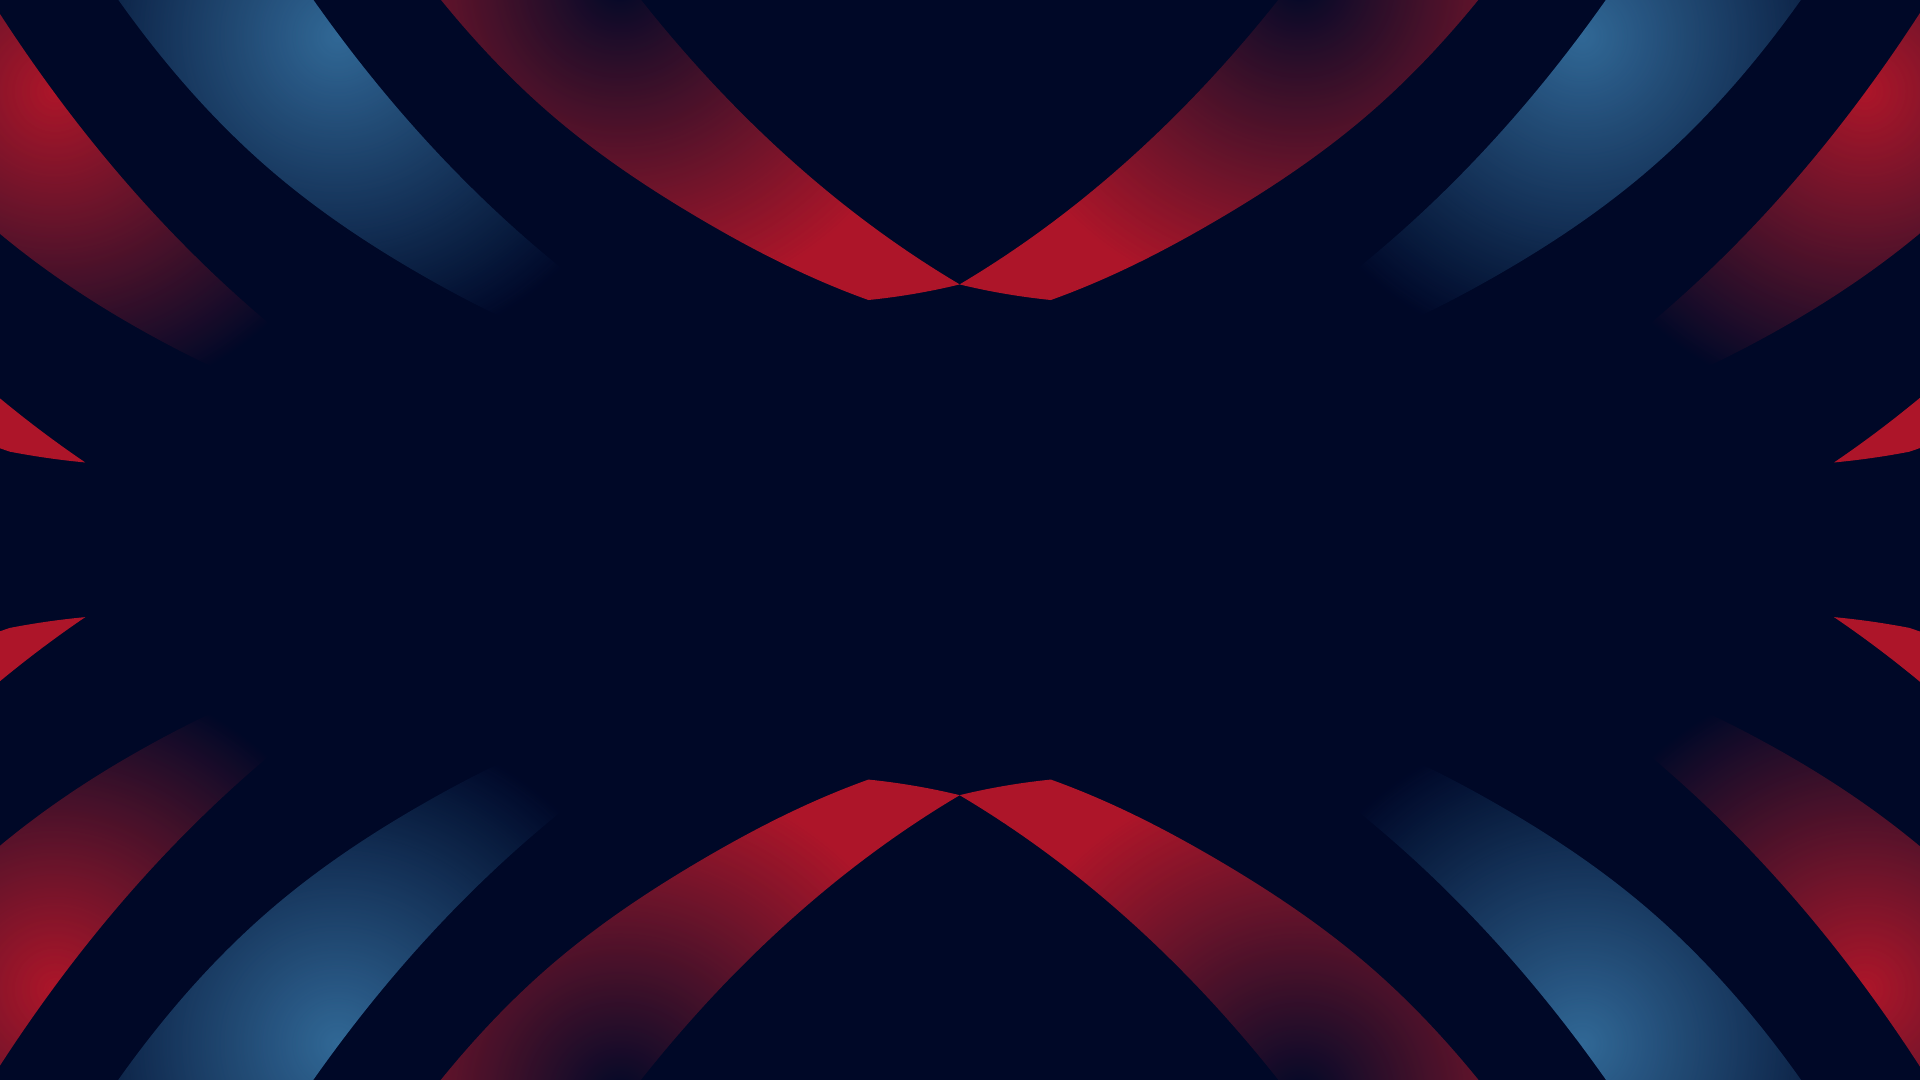
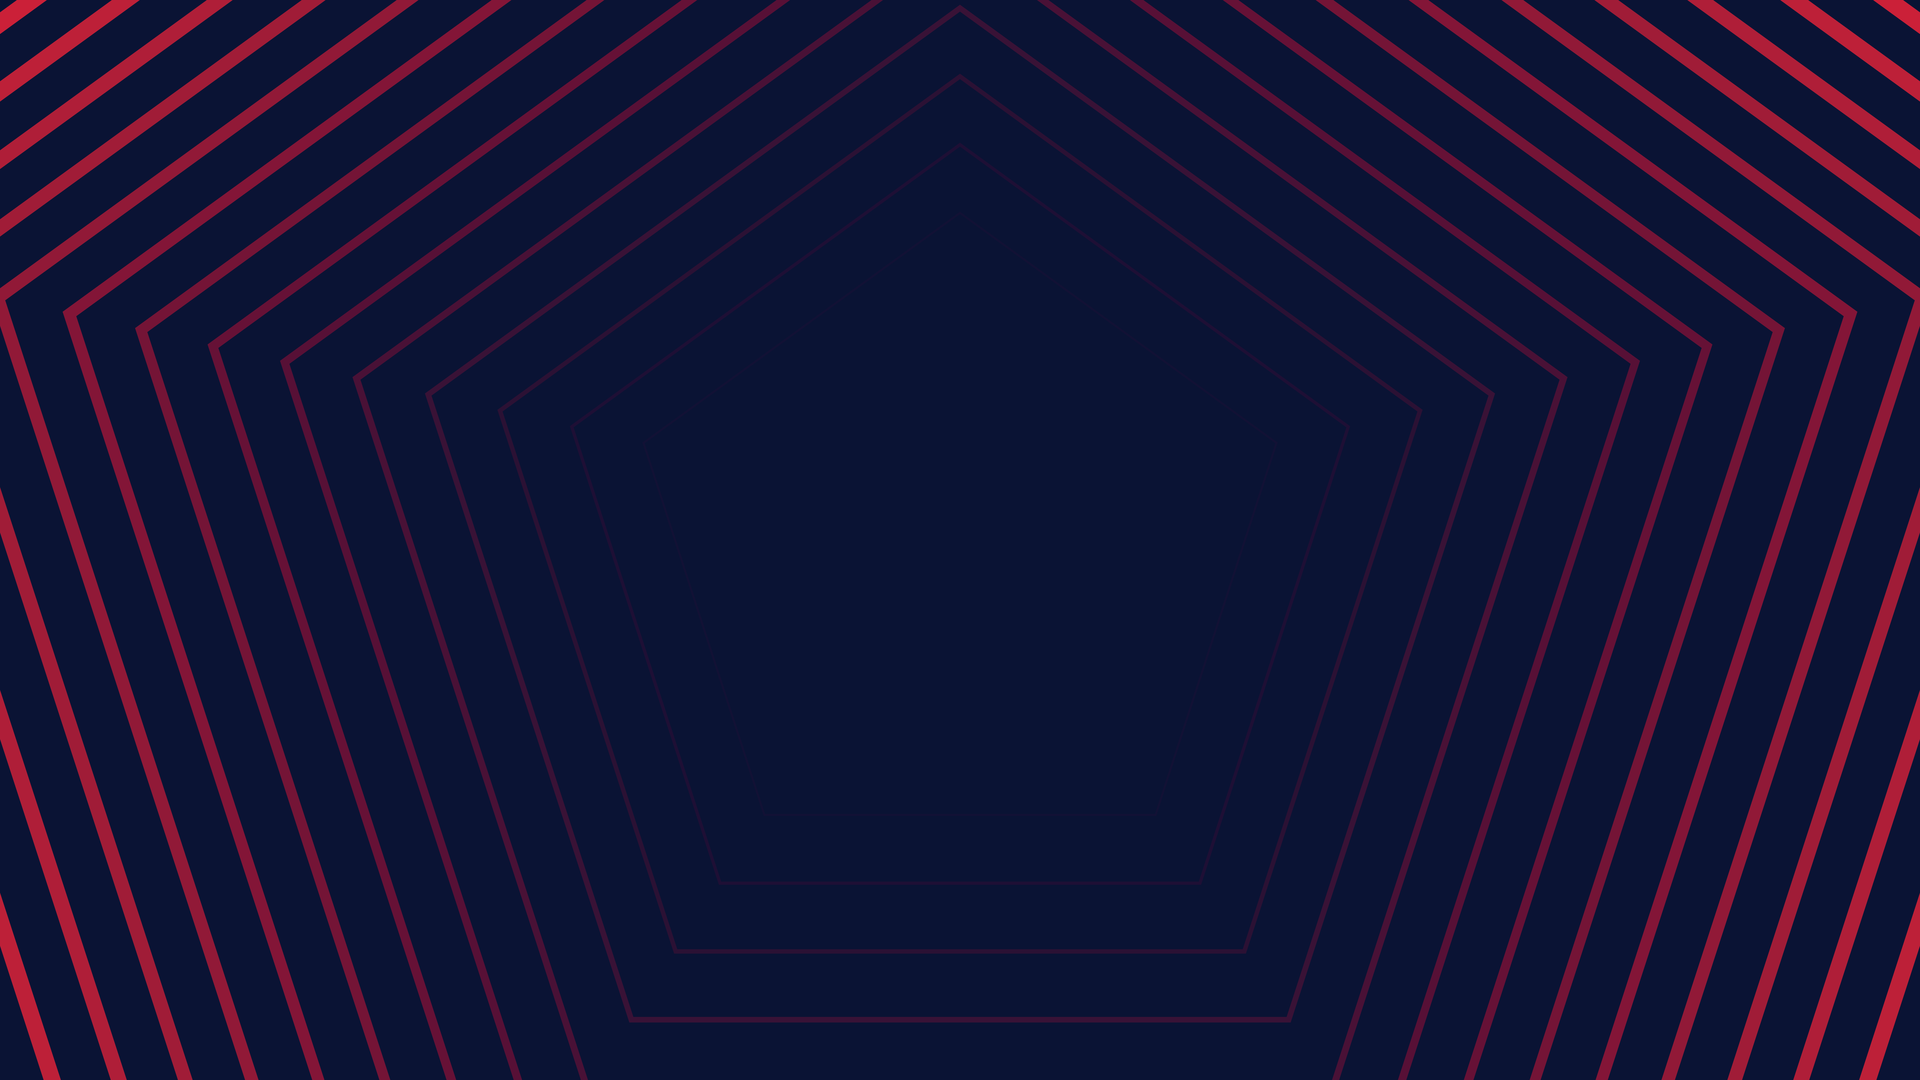
feat(board): AVC Cup pattern, the rehearsal event, and a U-shape that fits (spec/39)
BACKGROUND. AVC_CUP_PATTERN_06 replaces the extracted swirl on all three
screens. Calm through the middle, which is where the score plates and the
U-shape's keyed window sit.

REHEARSAL EVENT. comp_vis_1736 -> VIS tournament 1736, "VNL 2026 - WOMEN
(TEST ONLY)": 116 fixtures of VIS's own test data, drivable on demand, which
is what makes it the rehearsal event. Match 27832 (CHN v THA) is tomorrow's
fixture.

THE U-SHAPE DID NOT FIT ITS OWN NUMBERS. Every fault had one root: the rail
is 152 design px wide and its boxes were sized against the master's dummy
state, which carries a ONE-digit score. "25" needs 173 px at the old cap of
96.5, in a 138 px box, so a real score overflowed on every rail; the flag was
clipped by the top of the frame and the code sat on the score box's border.

The scores and sets boxes each give back 20 px of height, which buys the flag
room to show whole inside a white keyline that hugs the flag itself rather
than a fixed slot. The caps are FIXED, not fitted: a cap that shrank to fit
would make the score jump as it crossed 9 to 10, and a screen that changes
type size mid-rally reads as broken. Each is chosen for the widest string its
box can hold, with railCap() as the safety net for a payload nobody planned
for.

SUBSTITUTIONS are eight pips in two rows of four — eight is what the feed
reports for these events, and one row of eight made them ambiguous from the
stands. The band's labels come down from cap 32 to 24 and it now spans
[…]

diff --git a/src/components/scoreboard/VisBoardUShape.tsx b/src/components/scoreboard/VisBoardUShape.tsx
@@ -35,6 +35,8 @@ import {
   type VisBoardTheme,
   flagSrc,
 } from "@/components/scoreboard/vis-board-theme";
+import { fitCap } from "@/lib/board-text-fit";
+import { DEFAULT_FLAG_RATIO, FLAG_RATIO } from "@/lib/board-flag-ratios";
 
 const W = 1920;
 const H = 1080;
@@ -45,13 +47,46 @@ const cap = (capPx: number) => f(capPx / 0.72);
 
 const WIN = { left: 192, right: 1728, bottom: 864 };
 const RAIL = { lx: 20, rx: 1748, w: 152, stroke: 7 };
-const CUR = { y: 124, h: 160, cap: 96.5 };
-const SETS = { y: 304, h: 160, labelCap: 30, cap: 82.5 };
-const HIST = { y0: 484, h: 80, pitch: 100, cap: 50 };
+/**
+ * Rail geometry, rebalanced (spec/39). The previous figures overflowed at both
+ * ends: a two-digit score ran past its box on every side, the flag was clipped
+ * by the top of the frame, and the code sat on the score box's border. The
+ * scores and sets boxes each give back 20 px of height, which is what buys the
+ * flag room to show whole; every number is then fitted to its box rather than
+ * set at a fixed cap, so nothing can overflow whatever the score reaches.
+ */
+const HEAD = { y: 10, flagH: 66, keyline: 2.5, codeY: 80, codeH: 48, codeCap: 34 };
+const CUR = { y: 132, h: 140, cap: 70 };
+const SETS = { y: 284, h: 140, labelCap: 26, cap: 62 };
+const HIST = { y0: 442, h: 88, pitch: 108, cap: 56 };
 const SETPLATE = { x: 834, y: 904.5, w: 252, h: 135, labelCap: 44, cap: 86 };
-const BAND = { y: 890, h: 190 };
-/** The requested flag + code head (spec/35 W6). */
-const HEAD = { y: 12, flagH: 74, codeY: 90, codeCap: 34 };
+/**
+ * The interruption band (spec/39). Sized so the three groups clear the centre
+ * set plate at x 834-1086 on both sides: 40 + 756 = 796, and its mirror starts
+ * at 1124. The labels came down from cap 32, which ran "TIME OUT" into the
+ * plate.
+ */
+const BAND = { y: 890, h: 190, margin: 40, w: 756, gap: 24, padTop: 20, labelCap: 24 };
+/** One allowance pip. Two rows of four fit the band at this size. */
+const PIP = { size: 30, gap: 9, stroke: 4 };
+/** Pips drawn per group — the allowance, not what is left. */
+export const ALLOWANCE = { challenges: 2, substitutions: 8, timeouts: 2 };
+/** Usable width inside a rail box, once its stroke and a little air are off. */
+const RAIL_TEXT_W = RAIL.w - 2 * RAIL.stroke - 10;
+
+/**
+ * A cap that keeps `text` inside a rail box, never larger than the design's.
+ *
+ * The caps above are already chosen for the WIDEST string each box can hold —
+ * a two-digit score at CUR.cap measures 125 px in a 128 px interior — because a
+ * size that shrank to fit would make the score visibly jump as it crossed 9 to
+ * 10, and a venue screen that changes type size mid-rally reads as broken. So
+ * this is the safety net, not the normal path: it catches the payload nobody
+ * planned for (a three-digit score, a four-letter code) rather than sizing the
+ * ordinary case.
+ */
+const railCap = (text: string, maxCap: number) =>
+  fitCap(text, RAIL_TEXT_W, maxCap);
 
 interface SideData {
   code: string;
@@ -204,9 +239,15 @@ function Rail({
   const left = side === "left";
   const rx = left ? RAIL.lx : RAIL.rx;
   const src = flagSrc(data.code);
+  // The flag is sized by its own ratio so the keyline wraps the flag itself and
+  // nothing is cropped; the rail's width is the only cap.
+  const ratio = FLAG_RATIO[data.code.toUpperCase()] ?? DEFAULT_FLAG_RATIO;
+  const flagW = Math.min(RAIL.w - 20, HEAD.flagH * ratio);
   return (
     <>
-      {/* Requested head: borderless flag + FIVB code (spec/35 W6). */}
+      {/* Head: the whole flag inside a white keyline, then the code (spec/39).
+          The keyline hugs the FLAG, not a fixed slot, so it reads as a flag on
+          any ratio and against the artwork's dark bands. */}
       <div
         style={{
           position: "absolute",
@@ -216,20 +257,28 @@ function Rail({
           height: y(HEAD.flagH),
           display: "grid",
           placeItems: "center",
-          overflow: "hidden",
         }}
       >
         {src ? (
-          // eslint-disable-next-line @next/next/no-img-element -- board art asset
-          <img
-            src={src}
-            alt={data.code}
-            // `contain`: the whole flag at its own ratio, never cropped (spec/36).
-            style={{ maxWidth: "100%", maxHeight: "100%", objectFit: "contain", display: "block" }}
-            onError={(e) => {
-              e.currentTarget.style.display = "none";
+          <span
+            style={{
+              display: "block",
+              width: x(flagW),
+              height: y(HEAD.flagH),
+              border: `${f(HEAD.keyline)} solid ${theme.ink}`,
+              boxSizing: "border-box",
             }}
-          />
+          >
+            {/* eslint-disable-next-line @next/next/no-img-element -- board art asset */}
+            <img
+              src={src}
+              alt={data.code}
+              style={{ width: "100%", height: "100%", display: "block" }}
+              onError={(e) => {
+                e.currentTarget.style.display = "none";
+              }}
+            />
+          </span>
         ) : null}
       </div>
       <div
@@ -238,8 +287,10 @@ function Rail({
           left: x(rx),
           top: y(HEAD.codeY),
           width: x(RAIL.w),
-          textAlign: "center",
-          fontSize: cap(HEAD.codeCap),
+          height: y(HEAD.codeH),
+          display: "grid",
+          placeItems: "center",
+          fontSize: cap(railCap(data.code, HEAD.codeCap)),
           lineHeight: 1,
           letterSpacing: f(2),
         }}
@@ -258,7 +309,7 @@ function Rail({
           border: `${f(RAIL.stroke)} solid ${theme.accent}`,
           display: "grid",
           placeItems: "center",
-          fontSize: cap(CUR.cap),
+          fontSize: cap(railCap(String(data.score), CUR.cap)),
           lineHeight: 1,
           fontVariantNumeric: "tabular-nums",
         }}
@@ -286,7 +337,7 @@ function Rail({
         </span>
         <span
           style={{
-            fontSize: cap(SETS.cap),
+            fontSize: cap(railCap(String(data.sets), SETS.cap)),
             lineHeight: 1,
             fontVariantNumeric: "tabular-nums",
             alignSelf: "center",
@@ -309,7 +360,7 @@ function Rail({
             border: `${f(RAIL.stroke)} solid ${theme.accent}`,
             display: "grid",
             placeItems: "center",
-            fontSize: cap(HIST.cap),
+            fontSize: cap(railCap(v == null ? "" : String(v), HIST.cap)),
             lineHeight: 1,
             fontVariantNumeric: "tabular-nums",
           }}
@@ -323,7 +374,7 @@ function Rail({
 
 /** Counter dots — one pip per FIVB per-set allowance (challenge 2 / subst 6 /
  *  time-out 2), never showing fewer pips than the allowance. */
-function dots(remaining: number, base: number): boolean[] {
+export function dots(remaining: number, base: number): boolean[] {
   const total = Math.max(base, remaining);
   // Filled = still available. The rail counts DOWN as the set is spent.
   return Array.from({ length: total }, (_, i) => i < remaining);
@@ -333,26 +384,27 @@ function Counters({
   side, data, theme,
 }: { side: "left" | "right"; data: SideData; theme: VisBoardTheme }) {
   const left = side === "left";
-  const groups: { label: string; filled: boolean[] }[] = [
-    // The FIVB indoor per-set allowances (see FIVB_PER_SET): 2 / 6 / 2. The
-    // time-out row used to draw a single pip, which is the BEACH allowance.
-    { label: "CHALLENGE", filled: dots(data.challenges, 2) },
-    { label: "SUBST", filled: dots(data.substitutions, 6) },
-    { label: "TIME OUT", filled: dots(data.timeouts, 2) },
+  const groups: { label: string; filled: boolean[]; perRow: number }[] = [
+    { label: "CHALLENGE", filled: dots(data.challenges, ALLOWANCE.challenges), perRow: 2 },
+    // Eight, in two rows of four (spec/39). Eight is what the feed reports for
+    // these events, and one row of eight forced the pips small enough to be
+    // ambiguous from the stands.
+    { label: "SUBST", filled: dots(data.substitutions, ALLOWANCE.substitutions), perRow: 4 },
+    { label: "TIME OUT", filled: dots(data.timeouts, ALLOWANCE.timeouts), perRow: 2 },
   ];
   return (
     <div
       style={{
         position: "absolute",
-        ...(left ? { left: x(52) } : { right: x(52) }),
+        ...(left ? { left: x(BAND.margin) } : { right: x(BAND.margin) }),
         top: y(BAND.y),
-        width: x(760),
+        width: x(BAND.w),
         height: y(BAND.h),
         display: "grid",
-        gridTemplateColumns: "1fr 1.35fr 1fr",
-        gap: x(20),
+        gridTemplateColumns: "repeat(3, 1fr)",
+        gap: x(BAND.gap),
         alignContent: "start",
-        paddingTop: y(22),
+        paddingTop: y(BAND.padTop),
       }}
     >
       {groups.map((g) => (
@@ -362,12 +414,12 @@ function Counters({
             display: "grid",
             gridTemplateRows: "auto auto",
             justifyItems: "center",
-            rowGap: y(16),
+            rowGap: y(14),
           }}
         >
           <span
             style={{
-              fontSize: cap(32),
+              fontSize: cap(BAND.labelCap),
               lineHeight: 1,
               letterSpacing: f(1),
               // "TIME OUT" must stay on one line — the master has no wrap.
@@ -376,16 +428,25 @@ function Counters({
           >
             {g.label}
           </span>
-          <span style={{ display: "flex", gap: x(9) }}>
+          <span
+            style={{
+              display: "grid",
+              gridTemplateColumns: `repeat(${g.perRow}, ${x(PIP.size)})`,
+              gap: x(PIP.gap),
+              justifyContent: "center",
+            }}
+          >
             {g.filled.map((on, i) => (
               <span
                 key={i}
                 style={{
-                  width: x(34),
-                  height: x(34),
+                  width: x(PIP.size),
+                  height: x(PIP.size),
                   borderRadius: "50%",
-                  border: `${f(4)} solid ${theme.ink}`,
+                  border: `${f(PIP.stroke)} solid ${theme.ink}`,
+                  // Filled = still available; a spent one is left as an outline.
                   background: on ? theme.ink : "transparent",
+                  boxSizing: "border-box",
                 }}
               />
             ))}

diff --git a/src/__tests__/lib/ushape-counters.test.ts b/src/__tests__/lib/ushape-counters.test.ts
@@ -1,0 +1,38 @@
+/**
+ * The U-shape rail's allowance pips (spec/39).
+ *
+ * Filled = still available, outline = spent, so the rail counts DOWN like the
+ * full board's rows. Eight substitution pips in two rows of four: eight is what
+ * the feed reports for these events, and one row of eight made them too small
+ * to tell apart from the stands.
+ */
+
+import { describe, expect, it } from "vitest";
+import { ALLOWANCE, dots } from "@/components/scoreboard/VisBoardUShape";
+
+describe("U-shape allowance pips", () => {
+  it("draws one pip per allowance", () => {
+    expect(ALLOWANCE).toEqual({ challenges: 2, substitutions: 8, timeouts: 2 });
+    expect(dots(8, ALLOWANCE.substitutions)).toHaveLength(8);
+    expect(dots(2, ALLOWANCE.timeouts)).toHaveLength(2);
+    expect(dots(2, ALLOWANCE.challenges)).toHaveLength(2);
+  });
+
+  it("fills what is LEFT and leaves the spent ones as outlines", () => {
+    expect(dots(8, 8)).toEqual(Array(8).fill(true));
+    expect(dots(3, 8)).toEqual([true, true, true, false, false, false, false, false]);
+    expect(dots(0, 8)).toEqual(Array(8).fill(false));
+  });
+
+  it("splits eight into two rows of four", () => {
+    // The row split is the renderer's `perRow`, but the count has to divide.
+    expect(ALLOWANCE.substitutions % 4).toBe(0);
+    expect(ALLOWANCE.substitutions / 4).toBe(2);
+  });
+
+  it("never shows fewer pips than the feed says are left", () => {
+    // An event with a larger allowance than ours must not lose pips.
+    expect(dots(10, 8)).toHaveLength(10);
+    expect(dots(10, 8).filter(Boolean)).toHaveLength(10);
+  });
+});

diff --git a/scripts/provision-vis-live.ts b/scripts/provision-vis-live.ts
@@ -1,7 +1,7 @@
 // Provisioning for the VIS-fed live scoreboard (spec/34): the "Live Events"
-// tenant plus three competitions linked to FIVB VIS tournaments — the Boys'
-// U17 World Championship (dress rehearsal) and the two AVC Asian
-// Championships. These competitions hold NO matches here; they exist to give
+// tenant plus the competitions linked to FIVB VIS tournaments — the two U17
+// World Championships, the two AVC Asian Championships, and VIS's own VNL 2026
+// women's TEST tournament, which is what the dress rehearsal runs on. These competitions hold NO matches here; they exist to give
 // the read-only VIS boards a tenant, branding, and a `vis_tournament_no`.
 //
 // Dry-run by default — prints exactly what it would write and touches nothing.
@@ -70,6 +70,21 @@ const COMPETITIONS = [
     timezone: "Asia/Shanghai",
     startDate: "2026-08-21",
     endDate: "2026-08-30",
+  },
+  {
+    // VIS's own VNL 2026 women's TEST tournament — 116 fixtures with live data
+    // that can be driven on demand, which is what makes it the dress-rehearsal
+    // event (match 27832, CHN v THA, 2026-06-04). Not a real competition.
+    id: "comp_vis_1736",
+    visTournamentNo: 1736,
+    name: "VNL 2026 Women — rehearsal (VIS test data)",
+    gender: "WOMEN" as const,
+    category: "SENIOR" as const,
+    city: "Various",
+    country: "",
+    timezone: "Asia/Shanghai",
+    startDate: "2026-06-03",
+    endDate: "2026-07-26",
   },
   {
     id: "comp_vis_1765",

diff --git a/spec/39-USHAPE-FIT-AND-REHEARSAL.md b/spec/39-USHAPE-FIT-AND-REHEARSAL.md
@@ -1,0 +1,67 @@
+# spec/39 — U-shape fit, the AVC Cup pattern, and the rehearsal event
+
+Shipped 2026-08-19, ahead of the 2026-08-20 dress rehearsal.
+
+## 1. New board background
+
+`AVC_CUP_PATTERN_06` (8000 × 4500) replaces the extracted swirl on all three
+screens — `public/board-bg/avc-{scoreboard,set,ushape}.png`, resized to
+1920 × 1080. The pattern is calm through the middle, which is where the score
+plates and the U-shape's keyed window sit. The previous artwork is in git
+history if it is ever wanted back; a per-competition override
+(`public/board-bg/{competitionId}.jpg`) still wins over it.
+
+## 2. The rehearsal competition
+
+`comp_vis_1736` → VIS tournament 1736, "VNL 2026 - WOMEN (TEST ONLY)": 116
+fixtures of VIS's own test data, which is what makes it drivable on demand.
+Match **27832** (CHN v THA) is the dress-rehearsal fixture. Added to
+`scripts/provision-vis-live.ts` and applied to production; the script is
+idempotent, so re-running it is safe.
+
+## 3. The U-shape rail did not fit its own numbers
+
+Reported from the rehearsal build. Every fault had the same root: the rail is
+152 design px wide and its boxes were sized for the master's dummy state, which
+carries a **one-digit** score. A real two-digit score overflowed its box on
+every rail, and the flag and code were pushed off the top.
+
+| | before | after |
+| --- | --- | --- |
+| flag | 74 px tall, clipped, no outline | 66 px, whole, white keyline hugging the flag itself |
+| code | cap 34 at y 90, sitting on the score box | cap 34 in its own 48 px band, clear of both |
+| current score | y 124, h 160, **cap 96.5** — "25" needs 173 px in a 138 px box | y 132, h 140, cap 70 — "25" measures 125 px |
+| sets | y 304, h 160 | y 284, h 140 |
+| set history | y0 484, h 80, cap 50 | y0 442, h 88, cap 56 |
+
+**The caps are fixed, not fitted.** A cap that shrank to fit would make the
+score visibly jump as it crossed 9 to 10, and a screen that changes type size
+mid-rally reads as broken. So each cap is chosen for the widest string its box
+can hold, and `railCap()` — built on the spec/36 Ancorli metrics — is the safety
+net for the payload nobody planned for, not the normal path.
+
+## 4. Substitutions: eight pips, two rows of four
+
+Eight is what the feed reports for these events (spec/37 already takes VIS's own
+`NbRemainingSubstitution` verbatim rather than clamping to six). One row of eight
+forced the pips small enough to be ambiguous from the stands. Filled = still
+available, outline = spent, as before.
+
+The band also came down from cap 32 to 24 and now spans x 40 → 796, so
+"TIME OUT" clears the centre set plate at 834 on both sides.
+
+## 5. Verifying "within its defined space"
+
+`scripts/check-board-fit.mjs` renders the board and walks every text node,
+comparing the text's own rectangle against its container's. It found the one
+overflow left after the geometry pass — the country code's line box was 7 px
+taller than its band — and it is how to check any future change:
+
+    npx next dev -p 3313
+    node scripts/check-board-fit.mjs http://localhost:3313/board-lab
+
+It needs a harness route rendering the board with an arbitrary state, which is
+not committed; recreate it at `src/app/board-lab/page.tsx` when needed.
+
+`src/__tests__/lib/ushape-counters.test.ts` pins the pip counts and the
+fill-means-available rule.
